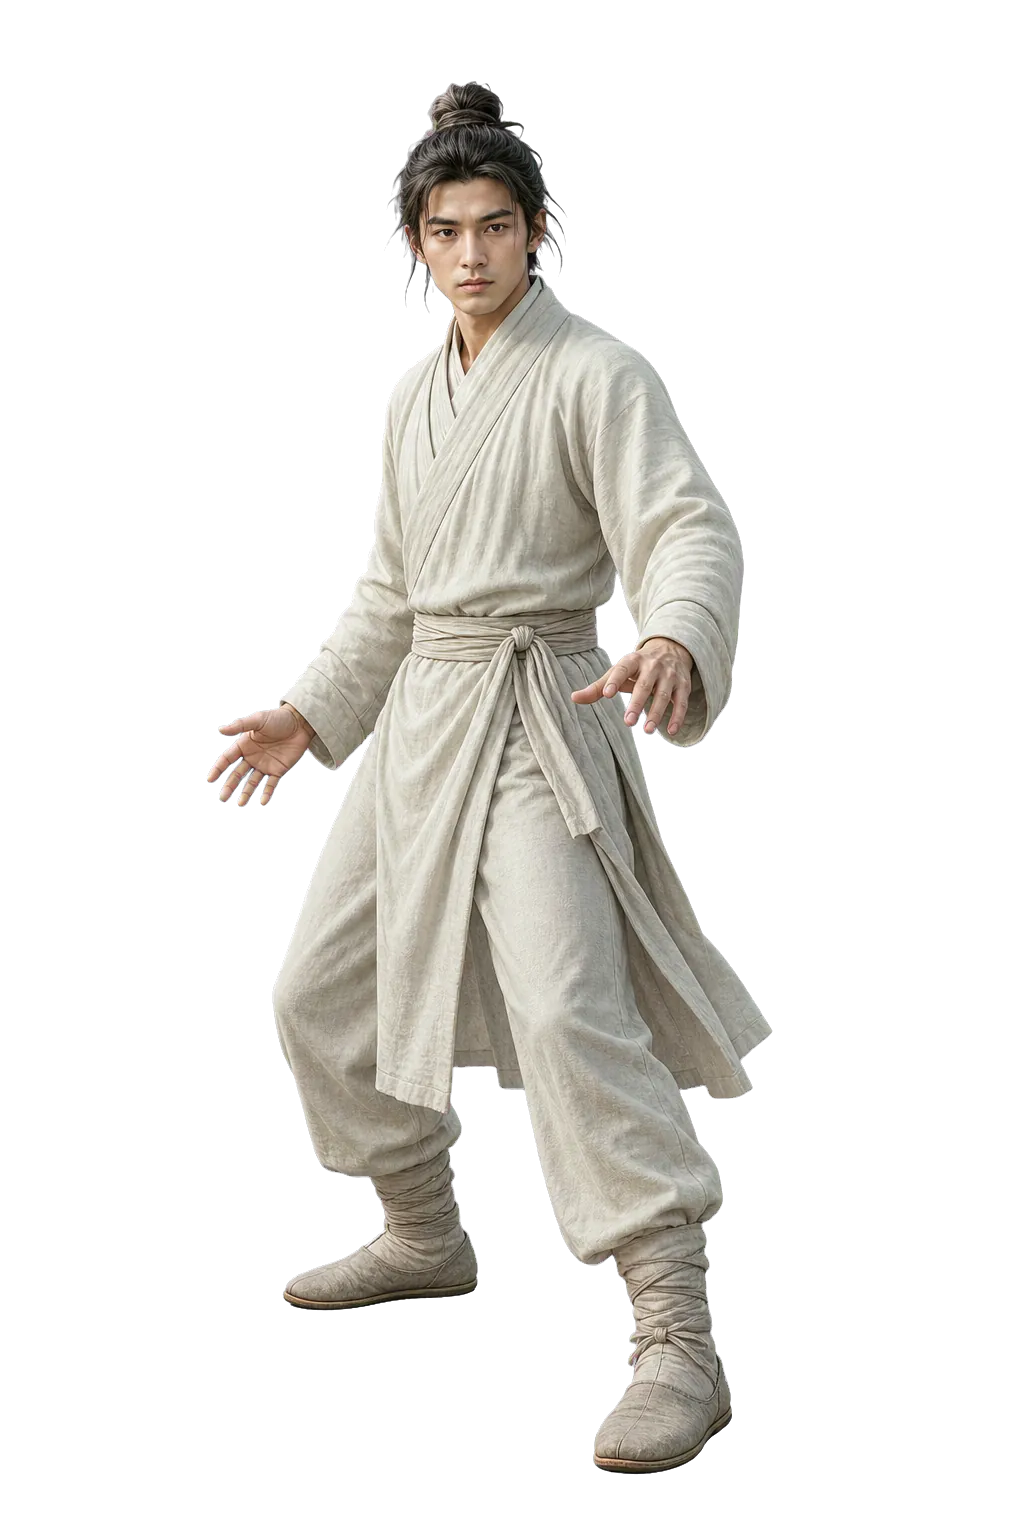
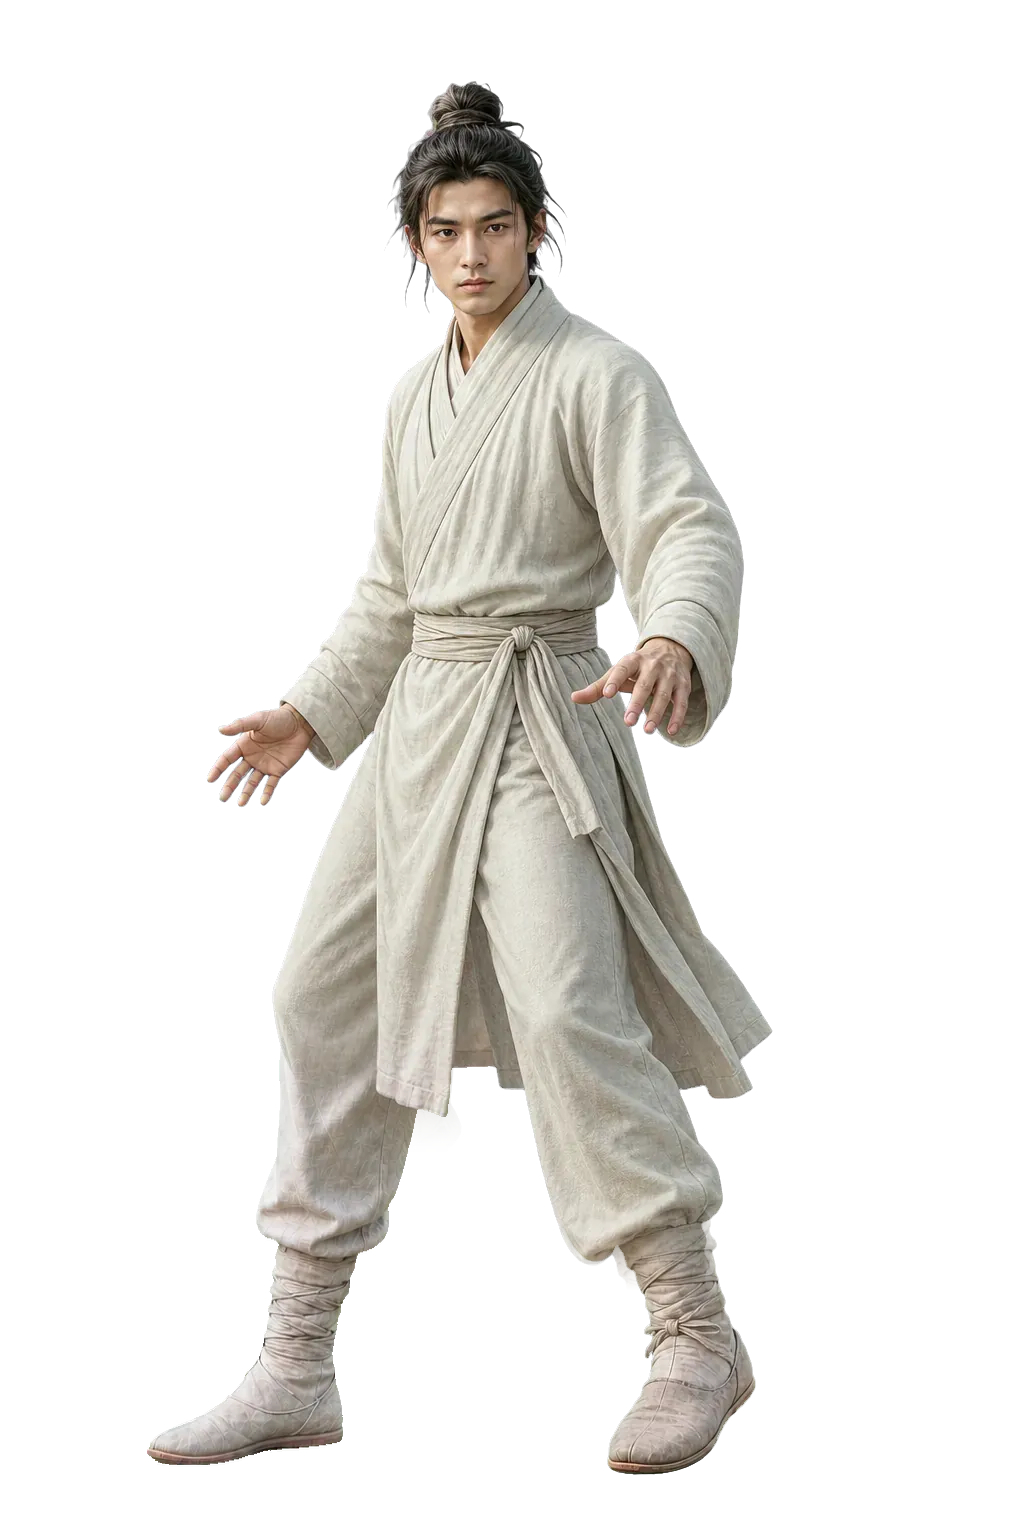
修 Ch21 论剑后人立绘两脚不共面(左脚整只悬空 164px → 10px)
2026-07-30 真机战斗屏目检逮到的唯一真缺陷。原图**左脚整只(含鞋尖)悬空**、
与落地的右脚差 164px = 其身高纵跨 1394 的 10.7%,违派单书立绘规格
「脚完整画出并踩在同一水平面上」——要的是「后脚跟微微离地」而非整脚离地。

codex image_gen 两轮返修(第一轮把两脚都画平、动势偏呆;第二轮找回后脚抬跟、
脚尖仍着地)。上身/脸/手/衣着与原图逐处锁定不变,「全章唯一衣裳干净的人」
这个最强题眼完整保留;顺带把原先看不出的「鞋底磨得偏而薄」画了出来。

**codex 自检漏报、我自验逮到并自行修掉的伪影**:两轮产物都带 113 个不透明
绿主导像素(最强 RGB(7,99,11),左鞋底外沿),是 remove_chroma_key 残留,
而线上现图为 0 —— 属净回归。用邻域中位色做确定性去边:恰 113 像素变化、
alpha 零改动(轮廓未动)、绿主导归零。

脚底 fraction 实测仍 **0.9603**,与已登记值完全相同,故 `character_avatar.dart`
**接线零改动**,只补了一段留档注释。

**同批否决一项计划中的改动**:原打算给 standee 九判据加「双脚共面」第十判据,
先量存量后**放弃**——75 张已登记 standee 里 30 张底部高差 >120px,论剑后人的
164px 只排第 20;放大排头三张实证全是**前后脚透视深度差**(前脚更近故在画布上
更低)与幻境角色下半身消散的假报,不是悬空。该几何量分不出「前脚在前(正确)」
与「后脚悬空(错误)」,不具判别力,加了会一次性红掉 30 张。双脚共面留作目检项。

已验证(worktree 实测):
- 转码后 alpha 包围盒 Δ=0 / 脚底 fraction 0.9603 不变 / alpha 通道最大差 0 /
  合成到真面板底色后均差 0.73/255(禁裸 RGB 比)
- 四角 alpha 全 0;纵跨 1394 落在同批 1374-1415 窄带
- format 0 changed;analyze EXIT=0 No issues
- targeted 4 文件逐个跑(standee 门禁/character_avatar/asset_audit/webp 解码)全 EXIT=0
- **真机战斗屏复跑 stage_21_03 目检**:双脚落地、地平线与队伍一致、题眼与身份全保留

Changed region(s): [[0.125, 0.6562, 0.4688, 0.9688], [0.5625, 0.7812, 0.75, 0.9688]]

diff --git a/lib/features/battle/presentation/character_avatar.dart b/lib/features/battle/presentation/character_avatar.dart
@@ -1339,6 +1339,12 @@ double battleStandeeFootFraction(String? path) => switch (path) {
   // Ch21「绝顶交程」主线终章(2026-07-29 美术批):alpha 包围盒实测登记(PIL 逐图现测)。
   // 五张人像纵向占比收敛在 1374-1415px 窄带(摆渡老手首版只占 1127px、比同批矮两成,
   // 已退回重构图修正),故本章无需再上 `_stageStandeeOpticalProfile` 的 scale 补偿。
+  // 2026-07-30 真机战斗屏目检补记:`jueding_lunjian_houren` 曾**左脚整只(含鞋尖)悬空**、
+  // 与落地的右脚差 164px(=其身高纵跨 1394 的 10.7%),违「脚完整踩在同一水平面上」。
+  // 已返修(后脚只抬跟、脚尖仍着地,双脚最低点差降到 10px),**脚底 fraction 实测仍 0.9603
+  // 故本表零改动**。此类缺陷 `battle_standee_asset_role_test` 逮不到——九判据只验 alpha
+  // 包围盒**底沿**,单脚悬空不改底沿;且已实测存量 75 张里 30 张底部高差 >120px 全是
+  // 前后脚透视深度差(前脚更近故在画布上更低)而非悬空,该几何量不具判别力,不可自动化。
   'assets/enemies/jueding_guan_he_zu.png' => 0.9596,
   'assets/enemies/jueding_bai_du_lao_shou.png' => 0.9473,
   'assets/enemies/jueding_lunjian_houren.png' => 0.9603,
